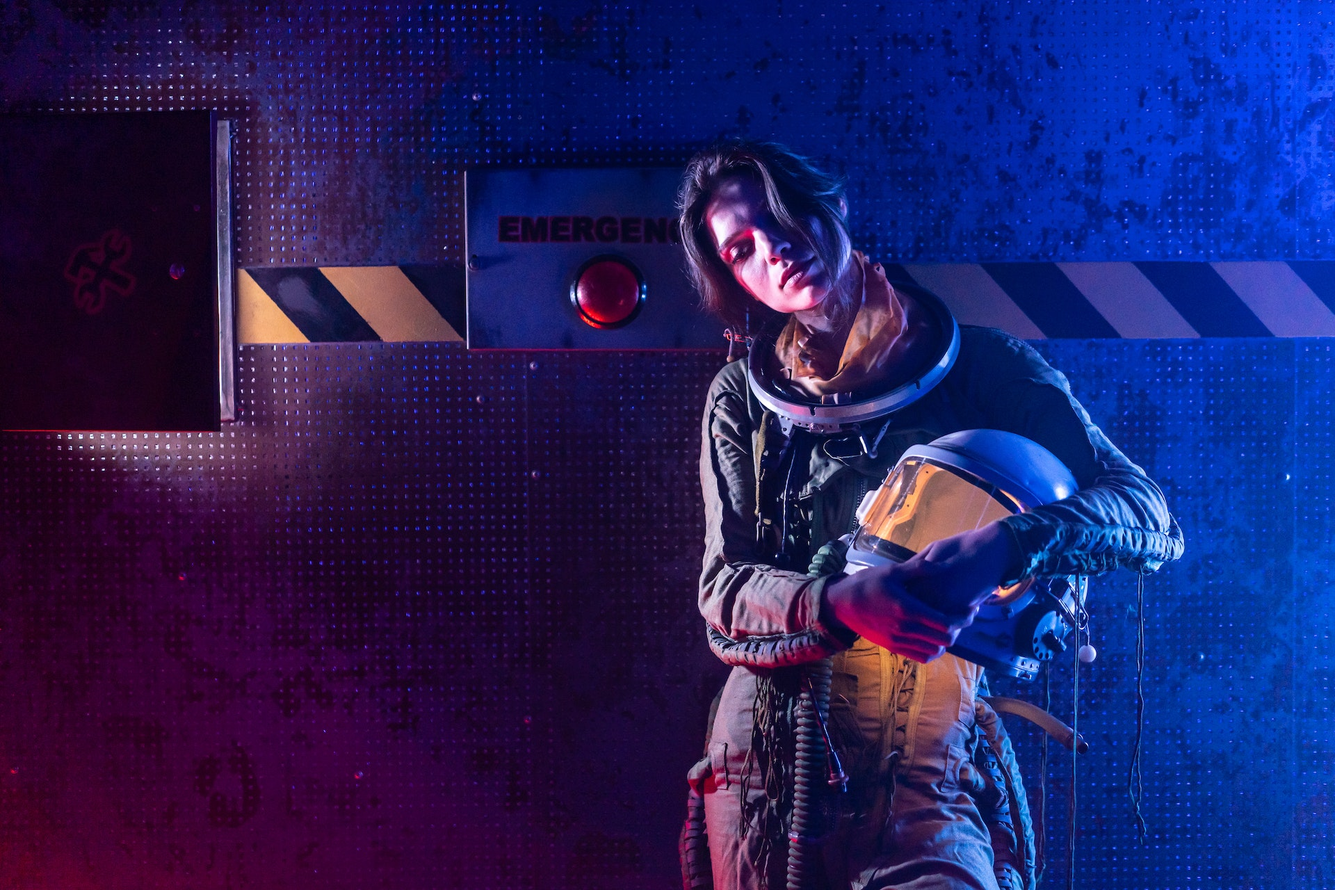
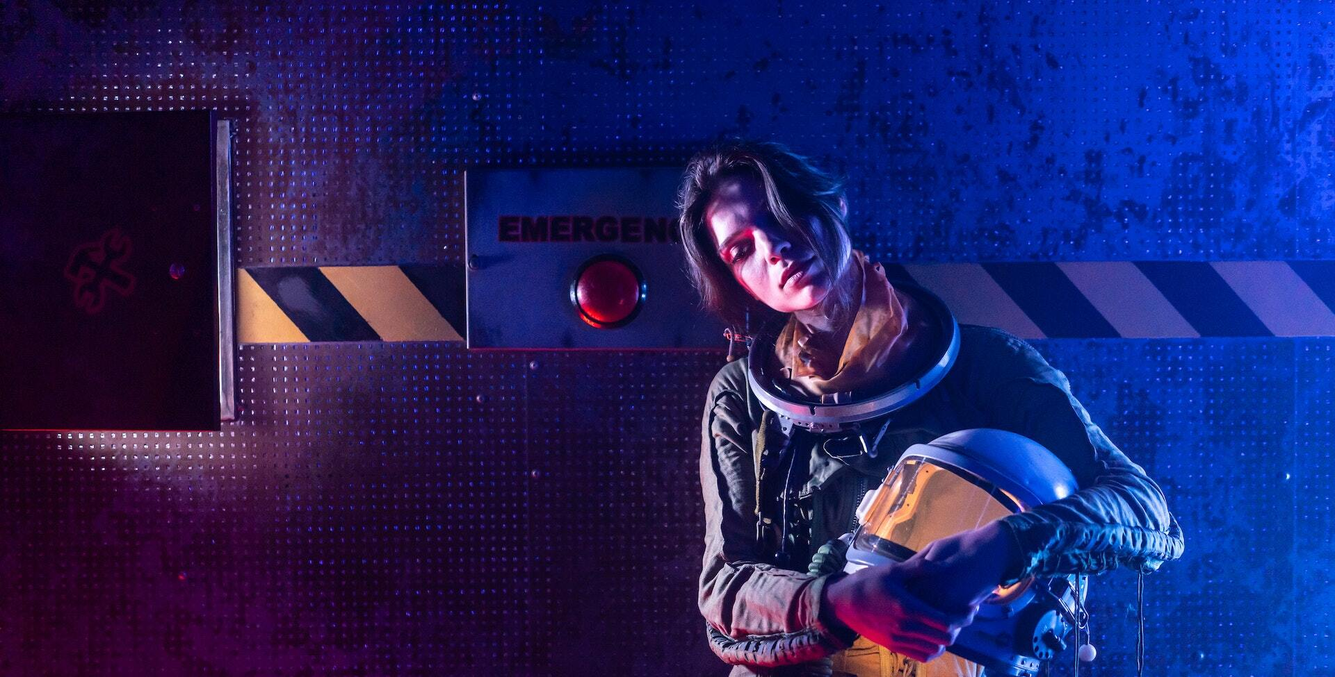
Fin Sectoon 1

diff --git a/public/css/style.css b/public/css/style.css
@@ -1,22 +1,29 @@
-* {
+body {
     margin: 0;
     padding: 0;
+    font-family:Arial, Helvetica, sans-serif
 }
-.sect01 {
+.bgImg {
     background-image: url(../img/mikhail.jpg);
-    height: 70vh;
     background-position: center;
     background-size: cover;
+    object-fit: cover;
+    width: 100vw;
+    height: 100vh;
+}
+.sect01 {
     display: flex;
-    justify-content: center;
+    align-items: flex-start;
+    justify-content: space-around;
     color: white;
+    height: 40%;
 }
 
 .navbar {
-    margin-top: 2%;
+    margin-top: 1%;
     display: flex;
     justify-content: space-around;
-    align-items: flex-start;
+    align-items: center;
     width: 80%;
 }
 
@@ -37,10 +44,61 @@
     width: 100%;
     display: flex;
     justify-content: center;
+    align-items: center;
 }
 
 .navLink {
     text-decoration: none;
     color: white;
     margin: 0% 3% 0% 2%;
+}
+
+.btnNav {
+    background-color: #b6005f;
+    padding: 15px 20px 13px;
+    border: none;
+    color: white;
+}
+
+/*-----------------------------------------------------------------------------------------------------------*/
+
+.txtImg {
+    display: flex;
+    flex-direction: column;
+    margin-left: 10%;
+    align-items: flex-start;
+}
+
+.txtImgBg {
+    color: white;
+    width: 60%;
+    font-weight: bold;
+    font-size: 1.2em;
+}
+.titreImgBg {
+    color: white;
+    width: 60%;
+    margin: 2% 0% 2% 0%;
+    font-size: 4em;
+}
+.iconTxt {
+    display: flex;
+    align-items: center;
+    margin-top: 3%;
+    color: white;
+}
+
+h1,p {
+    margin: 0;
+}
+
+/*-----------------------------------------------------------------------------------------------------------*/
+
+.social {
+    display: flex;
+    align-items: center;
+    gap: 4%;
+    color: white;
+    margin-top: 8%;
+    margin-left: 60%;
 }

diff --git a/index.html b/index.html
@@ -5,10 +5,11 @@
     <meta http-equiv="X-UA-Compatible" content="IE=edge">
     <meta name="viewport" content="width=device-width, initial-scale=1.0">
     <link rel="stylesheet" href="public/css/style.css">
+    <script src="https://kit.fontawesome.com/e52e4007ff.js" crossorigin="anonymous"></script>
     <title>Projet 1</title>
 </head>
 <body>
-    <header>
+    <header class="bgImg">
         <section class="sect01">
             <div class="navbar">
                 <div class="navLeft">
@@ -21,10 +22,31 @@
                     <a href="#" class="navLink">Post Layouts</a>
                     <a href="#" class="navLink">My Movies</a>
                     <a href="#" class="navLink">Purchase</a>
-                    <input type="button" value="Get in Touch">
+                    <input type="button" value="Get in Touch" class="btnNav">
                 </div>
             </div>
         </section>
+        <div class="txtImg">
+            <div class="txtImgBg">
+                <p>Hello & Welcome, I am Lisa "Lucky"</p>
+            </div>
+            <div class="titreImgBg">
+                <h1>Projet 01</h1>
+            </div>
+            <div class="txtImgBg">
+                <p>Professional theator and movie actor</p>
+            </div>
+            <div class="iconTxt">
+                <i class="fa-solid fa-circle-play fa-3x favicon1"></i>
+                &nbsp;&nbsp; See my ShowReel
+            </div>
+        </div>
+        <div class="social">
+            Get In Touch: &nbsp;
+            <i class="fa-brands fa-twitter fa-2x"></i>
+            <i class="fa-brands fa-youtube fa-2x"></i>
+            <i class="fa-brands fa-instagram fa-2x"></i>
+        </div>
     </header>
 </body>
 </html>
